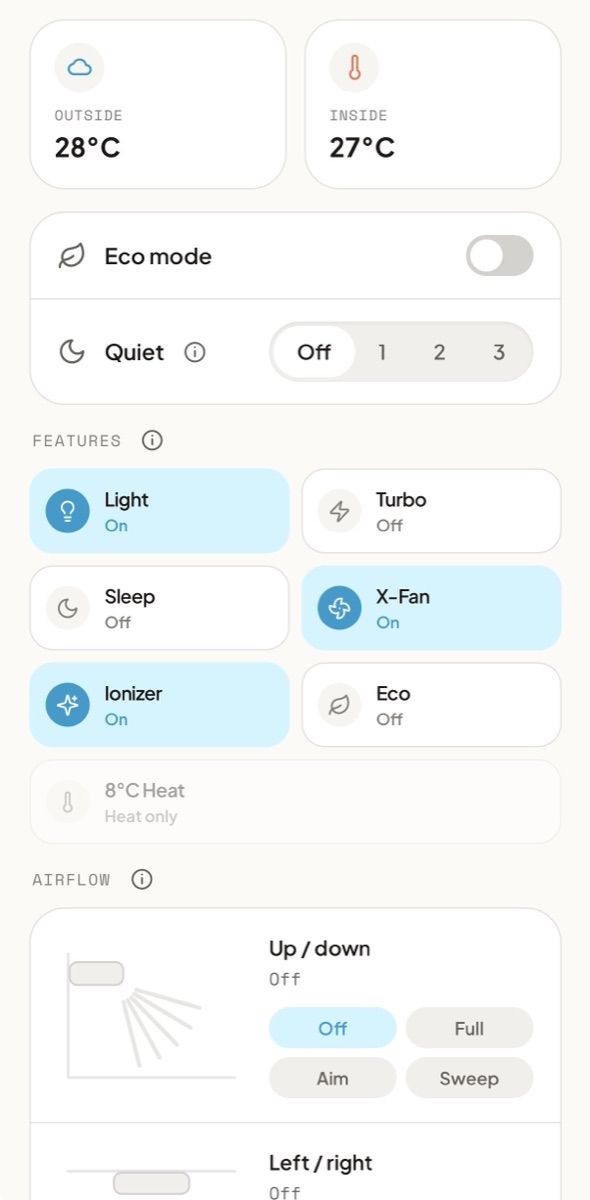
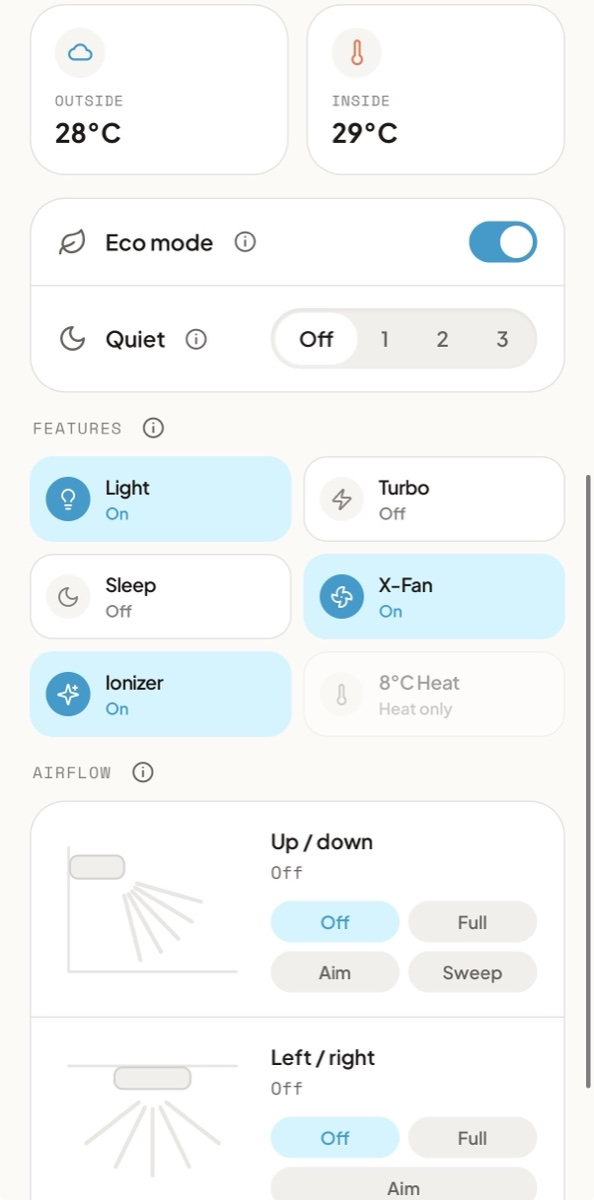
Update README screenshots

diff --git a/README.md b/README.md
@@ -19,9 +19,9 @@ behavior, probe findings, what's inert) lives in
 > back to GCM automatically.
 
 <p align="center">
-  <img src="docs/screenshots/home.jpg" width="300" alt="Home screen: temperature dial, mode tiles, and fan speed" />
+  <img src="docs/screenshots/home.jpg" height="600" alt="Home screen: temperature dial, mode tiles, and fan speed" />
   &nbsp;&nbsp;
-  <img src="docs/screenshots/features.jpg" width="300" alt="Feature toggles, quiet levels, and the airflow picker" />
+  <img src="docs/screenshots/features.jpg" height="600" alt="Feature toggles, quiet levels, and the airflow picker" />
 </p>
 
 ## How it works
